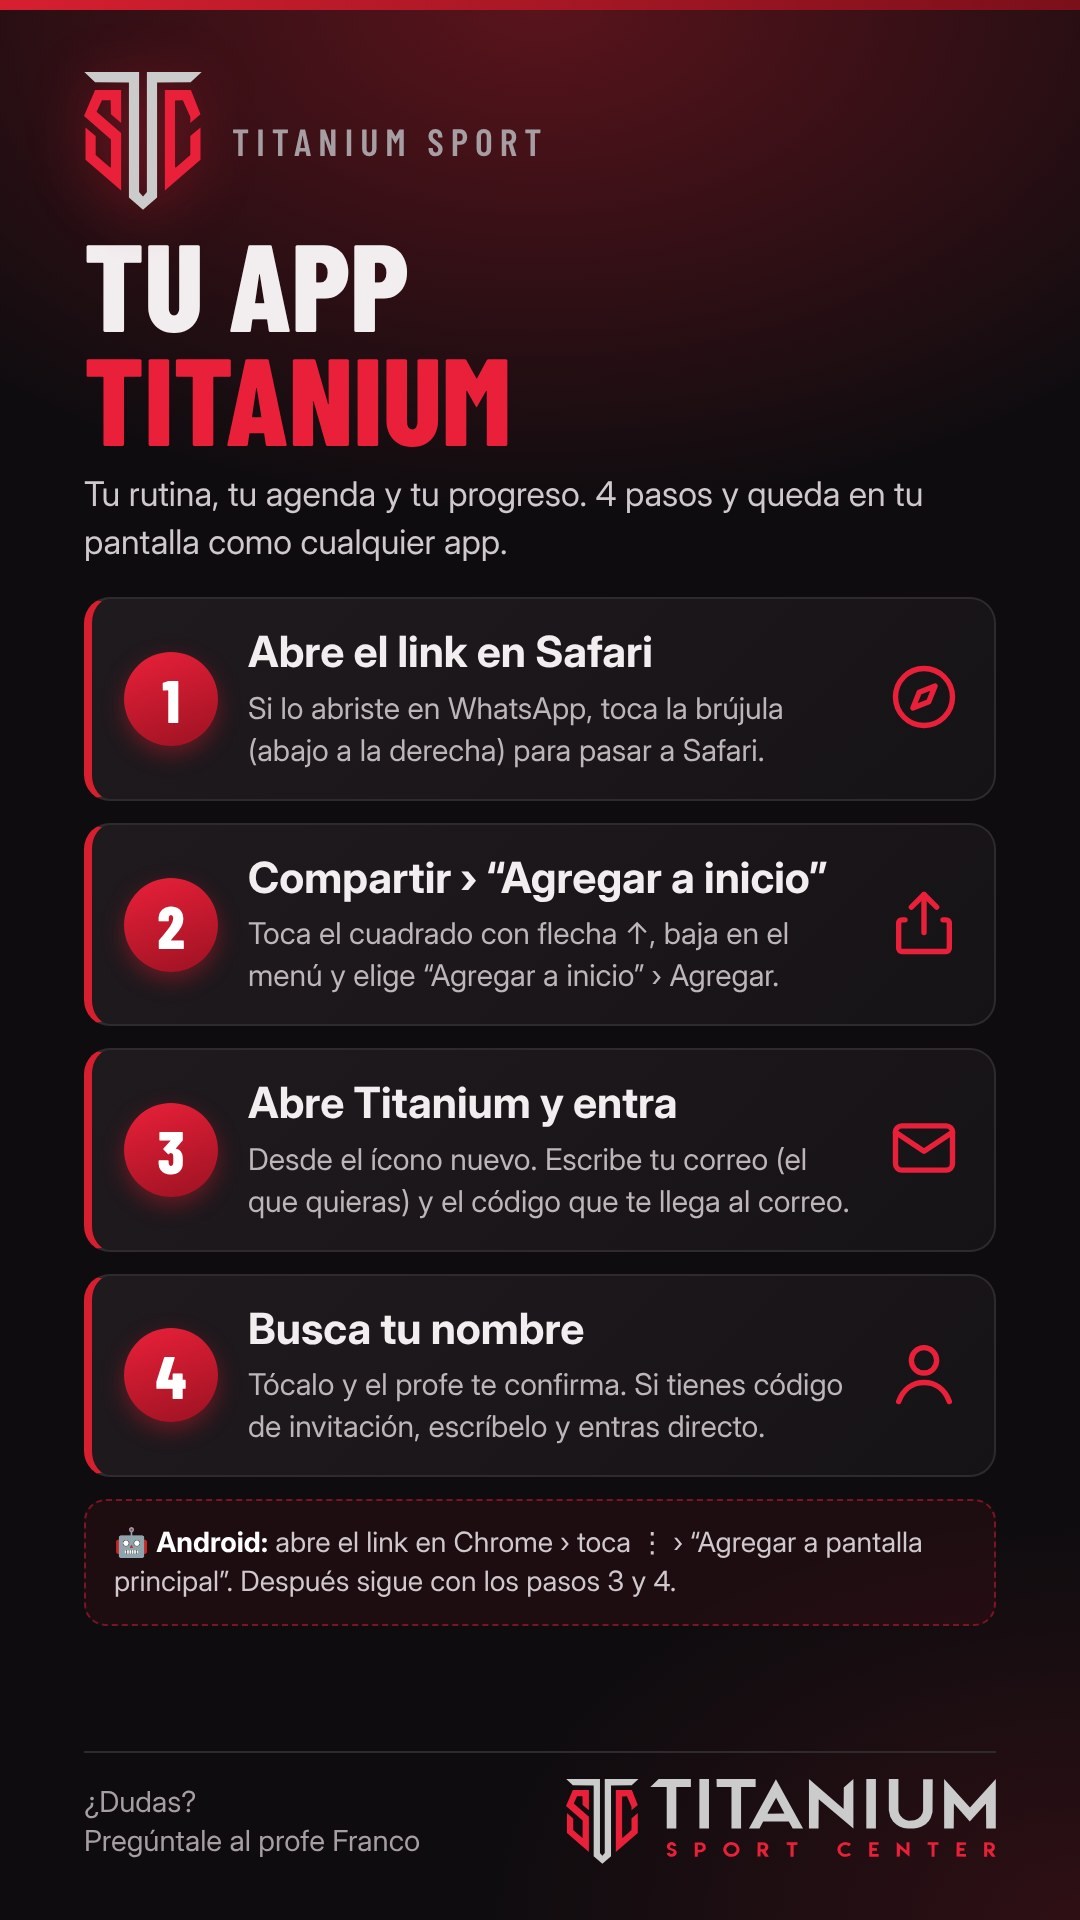
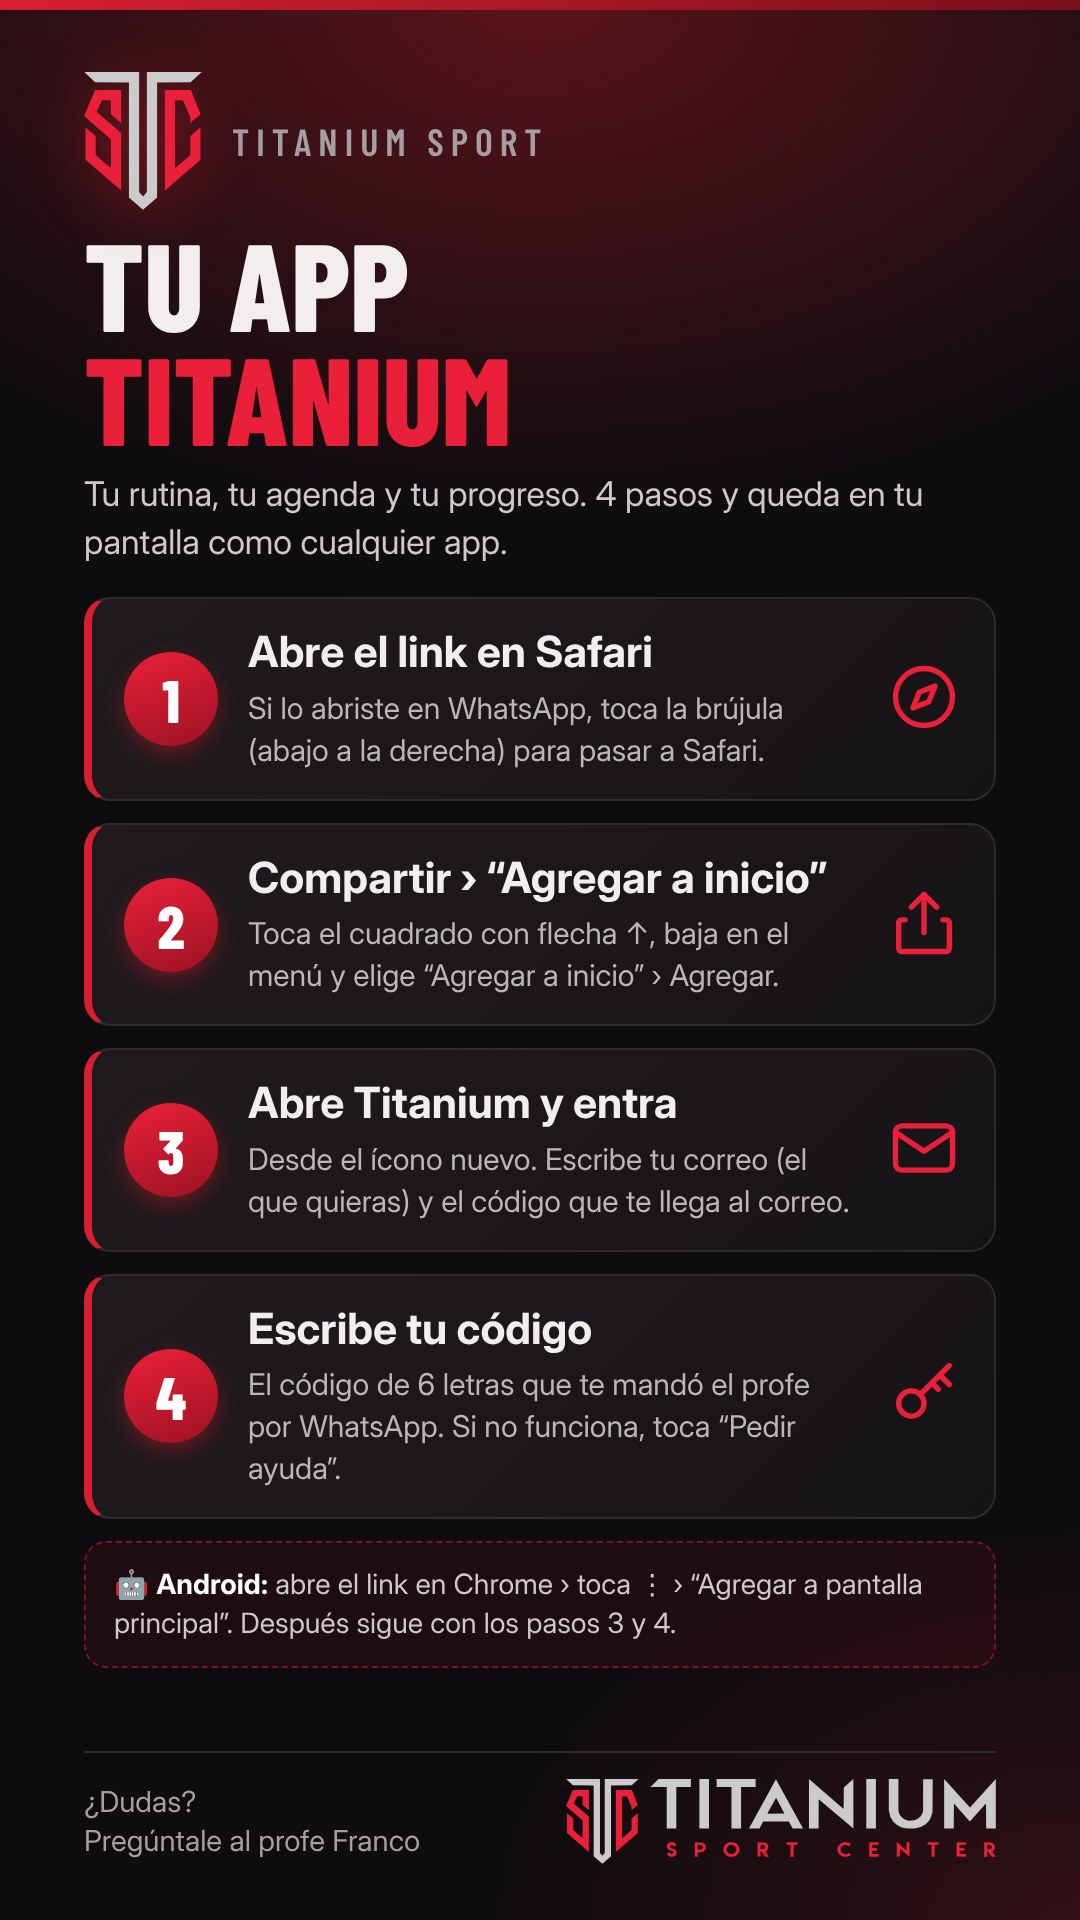
Ingreso solo con código de invitación + botón Pedir ayuda por WhatsApp; guía actualizada
Claude-Session: https://claude.ai/code/session_01FBUqu78aPMmPiZaSFC3x98

Changed region(s): [[0.0611, 0.6875, 0.8556, 0.875], [0.825, 0.6875, 0.8861, 0.75]]

diff --git a/alumno.html b/alumno.html
@@ -5,7 +5,7 @@
 <meta name="viewport" content="width=device-width,initial-scale=1,maximum-scale=1,viewport-fit=cover">
 <title>Titanium Sport</title>
 <link rel="manifest" href="manifest-alumno.json">
-<meta property="og:title" content="Titanium Sport · Tu app"><meta property="og:description" content="Tu rutina, tu agenda y tu progreso en el celular."><meta property="og:image" content="https://fkopalavecino.github.io/titanium/guia-app-titanium.jpg?v=1794068213"><meta property="og:image:width" content="1080"><meta property="og:image:height" content="1920"><meta property="og:type" content="website">
+<meta property="og:title" content="Titanium Sport · Tu app"><meta property="og:description" content="Tu rutina, tu agenda y tu progreso en el celular."><meta property="og:image" content="https://fkopalavecino.github.io/titanium/guia-app-titanium.jpg?v=1794069156"><meta property="og:image:width" content="1080"><meta property="og:image:height" content="1920"><meta property="og:type" content="website">
 <meta name="theme-color" content="#0e0c0f">
 <link rel="apple-touch-icon" sizes="180x180" href="apple-touch-icon.png?v=2"><meta name="apple-mobile-web-app-title" content="Titanium">
 <meta name="apple-mobile-web-app-capable" content="yes">
@@ -189,47 +189,31 @@ const enApp = matchMedia('(display-mode: standalone)').matches || navigator.stan
 const movil = /iPhone|iPad|iPod|Android/i.test(navigator.userAgent) || (navigator.platform === 'MacIntel' && navigator.maxTouchPoints > 1);
 if (movil && !enApp && !(await window.__sb.auth.getSession()).data?.session) { // en el computador se puede usar desde el navegador
   document.getElementById('app').innerHTML = `<div style="position:fixed;inset:0;z-index:50;background:#0e0c0f;display:flex;align-items:center;justify-content:center;padding:env(safe-area-inset-top) 0 env(safe-area-inset-bottom)">
-    <img src="guia-app-titanium.jpg?v=1794067868" alt="Cómo dejar Titanium en tu pantalla: 1) Abre el link en Safari. 2) Compartir › Agregar a inicio. 3) Abre Titanium desde el ícono y entra con tu correo. 4) Busca tu nombre." style="display:block;width:100vw;max-width:100vw;max-height:100dvh;height:auto;object-fit:contain">
+    <img src="guia-app-titanium.jpg?v=1794069156" alt="Cómo dejar Titanium en tu pantalla: 1) Abre el link en Safari. 2) Compartir › Agregar a inicio. 3) Abre Titanium desde el ícono y entra con tu correo. 4) Busca tu nombre." style="display:block;width:100vw;max-width:100vw;max-height:100dvh;height:auto;object-fit:contain">
   </div>`;
   return; // solo se usa desde el ícono de la pantalla de inicio
 }
 await window.tlSession();
 let { data: codigo, error: e1 } = await sb.rpc('vincular_alumno', { p_inv: invGuardada() });
+const { data: cfgRow } = await sb.from('config').select('data').eq('id', 1).maybeSingle();
+const waProfe = String(cfgRow?.data?.whatsapp || '').replace(/\D/g, ''); const profe = cfgRow?.data?.coach || 'tu profe';
 while (!codigo) {
-  const { data: u } = await sb.auth.getUser(); const inv = invGuardada();
-  const { data: pend } = await sb.rpc('mi_vinculo_pendiente');
-  if (pend) { // ya pidió entrar: espera la aprobación de Franco
-    $('#app').innerHTML = `<div class="center"><div style="font-size:44px">⏳</div><h1>Esperando a Franco</h1>
-      <p class="muted">Le avisamos que <b style="color:var(--fg)">${esc(pend)}</b> quiere entrar a la app. Apenas te apruebe, entras directo.</p>
-      <button class="btn pri" id="vin-rev" style="width:100%;max-width:320px">Revisar de nuevo</button>
-      <button class="btn" id="vin-otro" style="width:100%;max-width:320px">No soy yo, elegir otro nombre</button>
-      <button class="btn" style="background:transparent;border:0;color:var(--muted)" onclick="tlLogout()">Usar otro correo</button></div>`;
-    const r = await new Promise(res => { $('#vin-rev').onclick = () => res('rev'); $('#vin-otro').onclick = () => res('otro'); });
-    if (r === 'rev') { ({ data: codigo } = await sb.rpc('vincular_alumno', { p_inv: invGuardada() })); if (!codigo) toast('Aún no te aprueba. Te avisamos apenas lo haga.'); continue; }
-  }
-  const { data: lista } = await sb.rpc('lista_para_vincular');
-  const L = lista || [];
-  $('#app').innerHTML = `<div class="center" style="justify-content:flex-start;padding-top:24px"><h1>¿Quién eres?</h1>
-    <p class="muted">Busca tu nombre y tócalo. Franco confirmará que eres tú y quedas listo.</p>
-    <input id="vin-q" type="search" placeholder="Escribe tu nombre" autocomplete="off" style="width:100%;max-width:360px;min-height:48px;border-radius:12px;border:1px solid var(--line);background:var(--sunk);color:var(--fg);padding:0 14px;font:500 17px Barlow,sans-serif">
-    <div id="vin-l" style="width:100%;max-width:360px;display:grid;gap:8px;max-height:46vh;overflow:auto"></div>
-    <details style="width:100%;max-width:360px"><summary class="small muted" style="cursor:pointer">Tengo un código de invitación</summary>
-      <div style="display:grid;gap:8px;margin-top:8px"><input id="inv-in" autocapitalize="characters" autocomplete="off" maxlength="12" placeholder="Ej: K7M2QX" value="${esc(inv && !pend ? '' : '')}" style="min-height:48px;border-radius:12px;border:1px solid var(--line);background:var(--sunk);color:var(--fg);text-align:center;letter-spacing:.2em;font:700 17px Barlow,sans-serif;text-transform:uppercase"><button class="btn pri" id="inv-ok">Entrar con mi código</button></div></details>
-    <button class="btn" style="background:transparent;border:0;color:var(--muted)" onclick="tlLogout()">Usar otro correo (${esc(u?.user?.email || '')})</button></div>`;
-  const pintar = () => { const q = $('#vin-q').value.trim().toLowerCase().normalize('NFD').replace(/[̀-ͯ]/g, '');
-    const f = q ? L.filter(x => x.nombre.toLowerCase().normalize('NFD').replace(/[̀-ͯ]/g, '').includes(q)) : [];
-    $('#vin-l').innerHTML = !q ? '<div class="small muted" style="text-align:center">Escribe al menos tu primer nombre.</div>'
-      : f.length ? f.slice(0, 20).map(x => `<button class="btn" data-vin="${esc(x.codigo)}" data-n="${esc(x.nombre)}" style="justify-content:flex-start">👤 ${esc(x.nombre)}</button>`).join('')
-      : '<div class="small muted" style="text-align:center">No aparece. Pídele a Franco que te agregue.</div>'; };
-  $('#vin-q').oninput = pintar; pintar();
-  const elegido = await new Promise(res => {
-    $('#vin-l').onclick = e => { const b = e.target.closest('[data-vin]'); if (b && confirm(`¿Eres ${b.dataset.n}?`)) res({ cod: b.dataset.vin }); };
-    $('#inv-ok').onclick = () => { const v = $('#inv-in').value.trim().toUpperCase(); if (v) res({ inv: v }); };
-  });
-  if (elegido.inv) { try { localStorage.setItem('tl-inv', elegido.inv); } catch (_) {} ({ data: codigo } = await sb.rpc('vincular_alumno', { p_inv: elegido.inv }));
-    if (!codigo) { toast('Ese código no es válido o ya se usó.'); try { localStorage.removeItem('tl-inv'); } catch (_) {} } continue; }
-  const { error: ev } = await sb.rpc('solicitar_vinculo', { p_codigo: elegido.cod });
-  if (ev) toast('No se pudo enviar: ' + ev.message);
+  const { data: u } = await sb.auth.getUser(); const inv = invGuardada(); const mail = u?.user?.email || '';
+  const ayuda = waProfe ? `https://wa.me/${waProfe}?text=${encodeURIComponent(`Hola ${profe}! No puedo entrar a la app de Titanium 🙈\nMi correo: ${mail}${inv ? '\nCódigo que probé: ' + inv : ''}`)}` : '';
+  $('#app').innerHTML = `<div class="center" style="justify-content:flex-start;padding-top:28px">
+    <img src="icon-192.png" alt="" width="68" height="68" style="border-radius:16px">
+    <h1>Tu código de invitación</h1>
+    <p class="muted" style="margin:0">Escribe el código de 6 letras que te mandó ${esc(profe)} por WhatsApp.</p>
+    ${inv ? `<div class="note small" style="max-width:340px;border:1px solid var(--warn)">El código <b>${esc(inv)}</b> no funcionó o ya se usó. Revísalo o pide ayuda.</div>` : ''}
+    <input id="inv-in" autocapitalize="characters" autocomplete="off" maxlength="12" placeholder="Ej: K7M2QX" style="width:100%;max-width:340px;min-height:56px;border-radius:12px;border:1px solid var(--line);background:var(--sunk);color:var(--fg);text-align:center;letter-spacing:.25em;font:700 22px Barlow,sans-serif;text-transform:uppercase">
+    <button class="btn pri" id="inv-ok" style="width:100%;max-width:340px">Entrar</button>
+    ${ayuda ? `<a class="btn" href="${ayuda}" target="_blank" rel="noopener" style="width:100%;max-width:340px;background:#1f7a4d;border-color:#1f7a4d;color:#fff">💬 Pedir ayuda a ${esc(profe)}</a>` : ''}
+    <button class="btn" style="background:transparent;border:0;color:var(--muted)" onclick="tlLogout()">Usar otro correo (${esc(mail)})</button></div>`;
+  const v = await new Promise(res => { const go = () => { const x = $('#inv-in').value.trim().toUpperCase(); if (x) res(x); };
+    $('#inv-ok').onclick = go; $('#inv-in').onkeydown = e => { if (e.key === 'Enter') go(); }; });
+  $('#inv-ok').disabled = true; $('#inv-ok').textContent = 'Revisando…';
+  try { localStorage.setItem('tl-inv', v); } catch (_) {}
+  ({ data: codigo } = await sb.rpc('vincular_alumno', { p_inv: v }));
 }
 try { localStorage.removeItem('tl-inv'); } catch (_) {}
 

diff --git a/index.html b/index.html
@@ -1085,7 +1085,6 @@ VIEWS.alumnos = () => {
       <select id="a-f" aria-label="Filtrar">
         ${[['activos','Activos'],['sinprog','Sin programa'],['progpronto','Programa termina en 7 días'],['progfin','Programa terminado'],['lesion','Con lesiones o PAR-Q'],['riesgo','En riesgo de abandonar'],['sinapp',`Sin app · por invitar (${activos().filter(a => !a.vinculado).length})`],['inactivos','Inactivos'],['todos','Todos']].map(([v,l]) => `<option value="${v}" ${F === v ? 'selected' : ''}>${l}</option>`).join('')}
       </select>
-      <button class="btn" data-act="link-grupo" title="Un solo link para mandar al grupo de WhatsApp">📣 Link para el grupo</button>
       <button class="btn pri" data-act="nuevo-alumno">+ Nuevo alumno</button>
     </div>
   </div>
@@ -1988,7 +1987,7 @@ let toastT = 0;
 function toast(msg, err) { const t = $('#toast'); t.textContent = msg; t.className = 'toast' + (err ? ' err' : ''); t.hidden = false; clearTimeout(toastT); toastT = setTimeout(() => t.hidden = true, 3200); }
 /* ---------- guía en imagen que va junto a las invitaciones ---------- */
 let GUIA = null; // se precarga para poder compartirla al instante (iPhone exige compartir dentro del toque)
-fetch('guia-app-titanium.jpg?v=1794067868').then(r => r.ok ? r.blob() : null).then(b => { if (b) GUIA = new File([b], 'guia-app-titanium.jpg', { type: 'image/jpeg' }); }).catch(() => {});
+fetch('guia-app-titanium.jpg?v=1794069156').then(r => r.ok ? r.blob() : null).then(b => { if (b) GUIA = new File([b], 'guia-app-titanium.jpg', { type: 'image/jpeg' }); }).catch(() => {});
 let INV = null; // mensaje pendiente de enviar {msg, tel}
 const esMovil = () => /iPhone|iPad|iPod|Android/i.test(navigator.userAgent) || (navigator.platform === 'MacIntel' && navigator.maxTouchPoints > 1);
 async function compartirTexto(msg, tel) {
@@ -2025,7 +2024,7 @@ async function invitarAlumno(code, btn) {
   if (btn) { btn.disabled = false; btn.textContent = txt0; }
   if (error || !inv) { toast('No se pudo crear la invitación: ' + (error?.message || ''), true); return; }
   const url = location.origin + location.pathname.replace(/[^/]*$/, '') + 'alumno.html?i=' + inv;
-  const c = cfg(); const msg = `Hola ${firstName(a.nombre)}! 💪 Ya tienes tu app de ${c.gimnasio || 'Titanium Sport'}: tu rutina, tu agenda y tu progreso en el celular.\n\n👉 ${url}\n\nÁbrelo y sigue los pasos que aparecen. Si te pide código de invitación, es: *${inv}*\n\n¡Nos vemos en el gym!`;
+  const c = cfg(); const msg = `Hola ${firstName(a.nombre)}! 💪 Ya tienes tu app de ${c.gimnasio || 'Titanium Sport'}: tu rutina, tu agenda y tu progreso en el celular.\n\n👉 ${url}\n\nÁbrelo y sigue los pasos que aparecen. Tu código de invitación es: *${inv}*\n\n¡Nos vemos en el gym!`;
   const tel = String(a.telefono || '').replace(/\D/g, '');
   INV = { msg, tel }; openModal(`📲 Invitar a ${firstName(a.nombre)}`, previewInvitacion(msg));
 }
